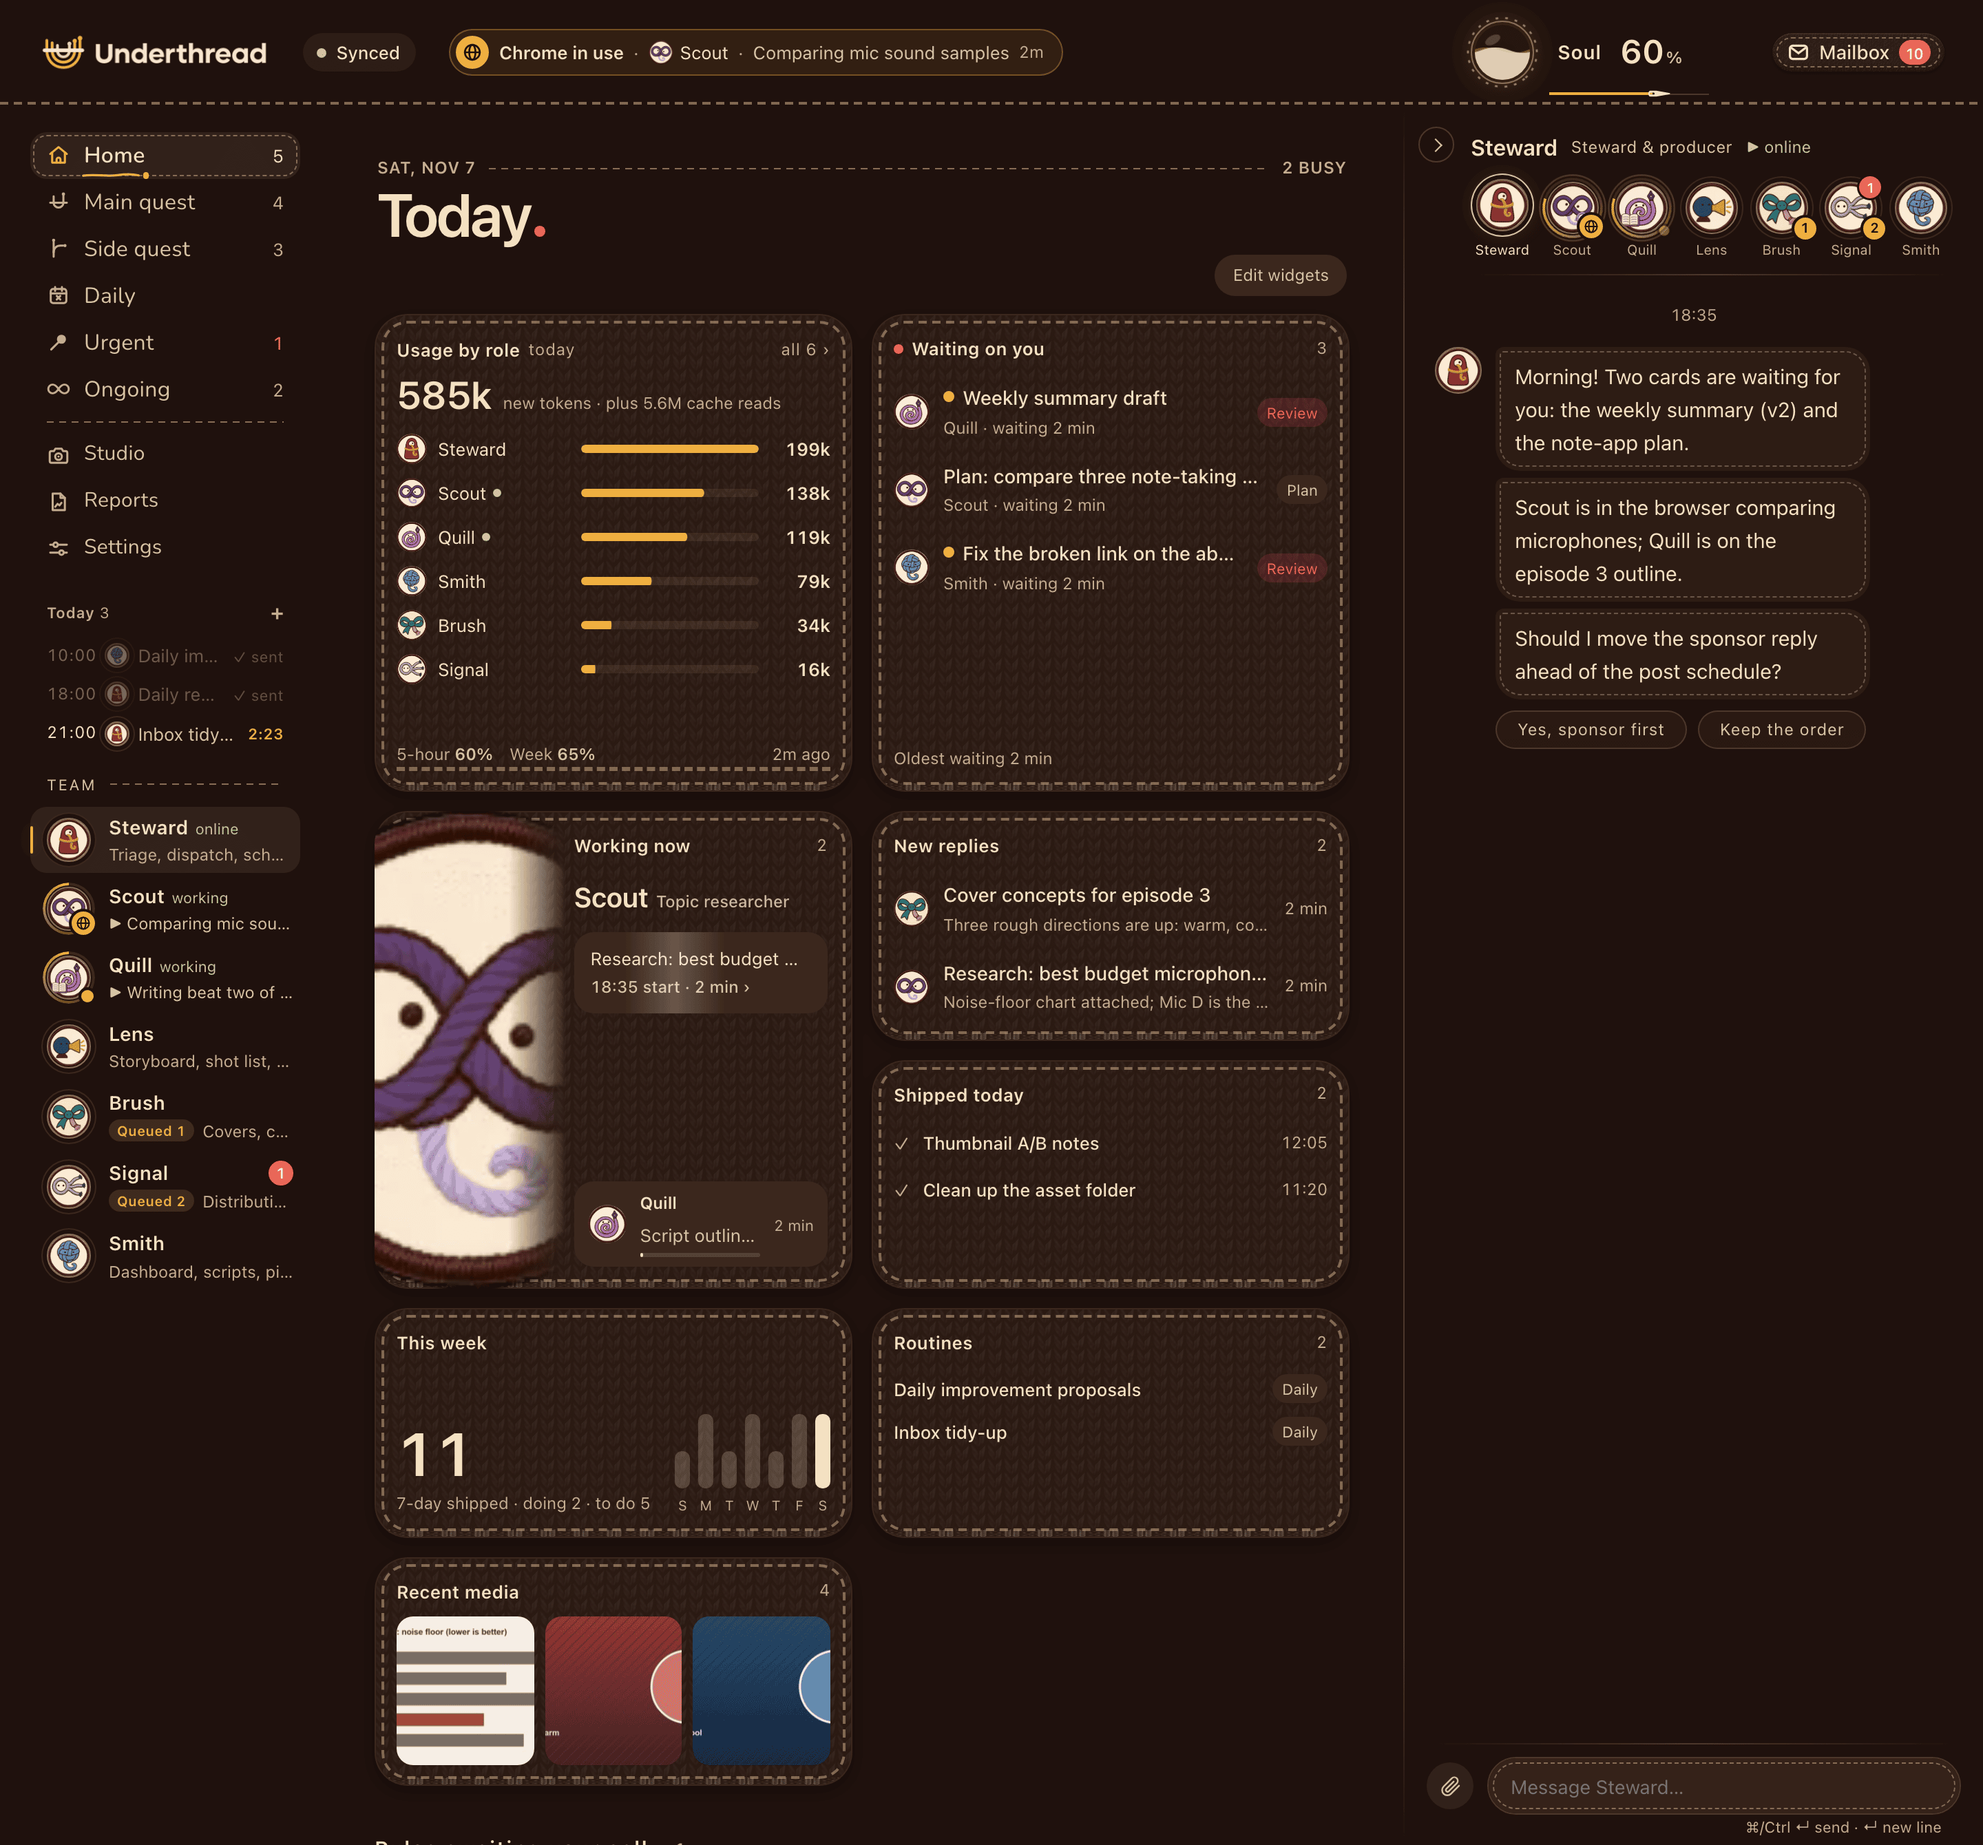
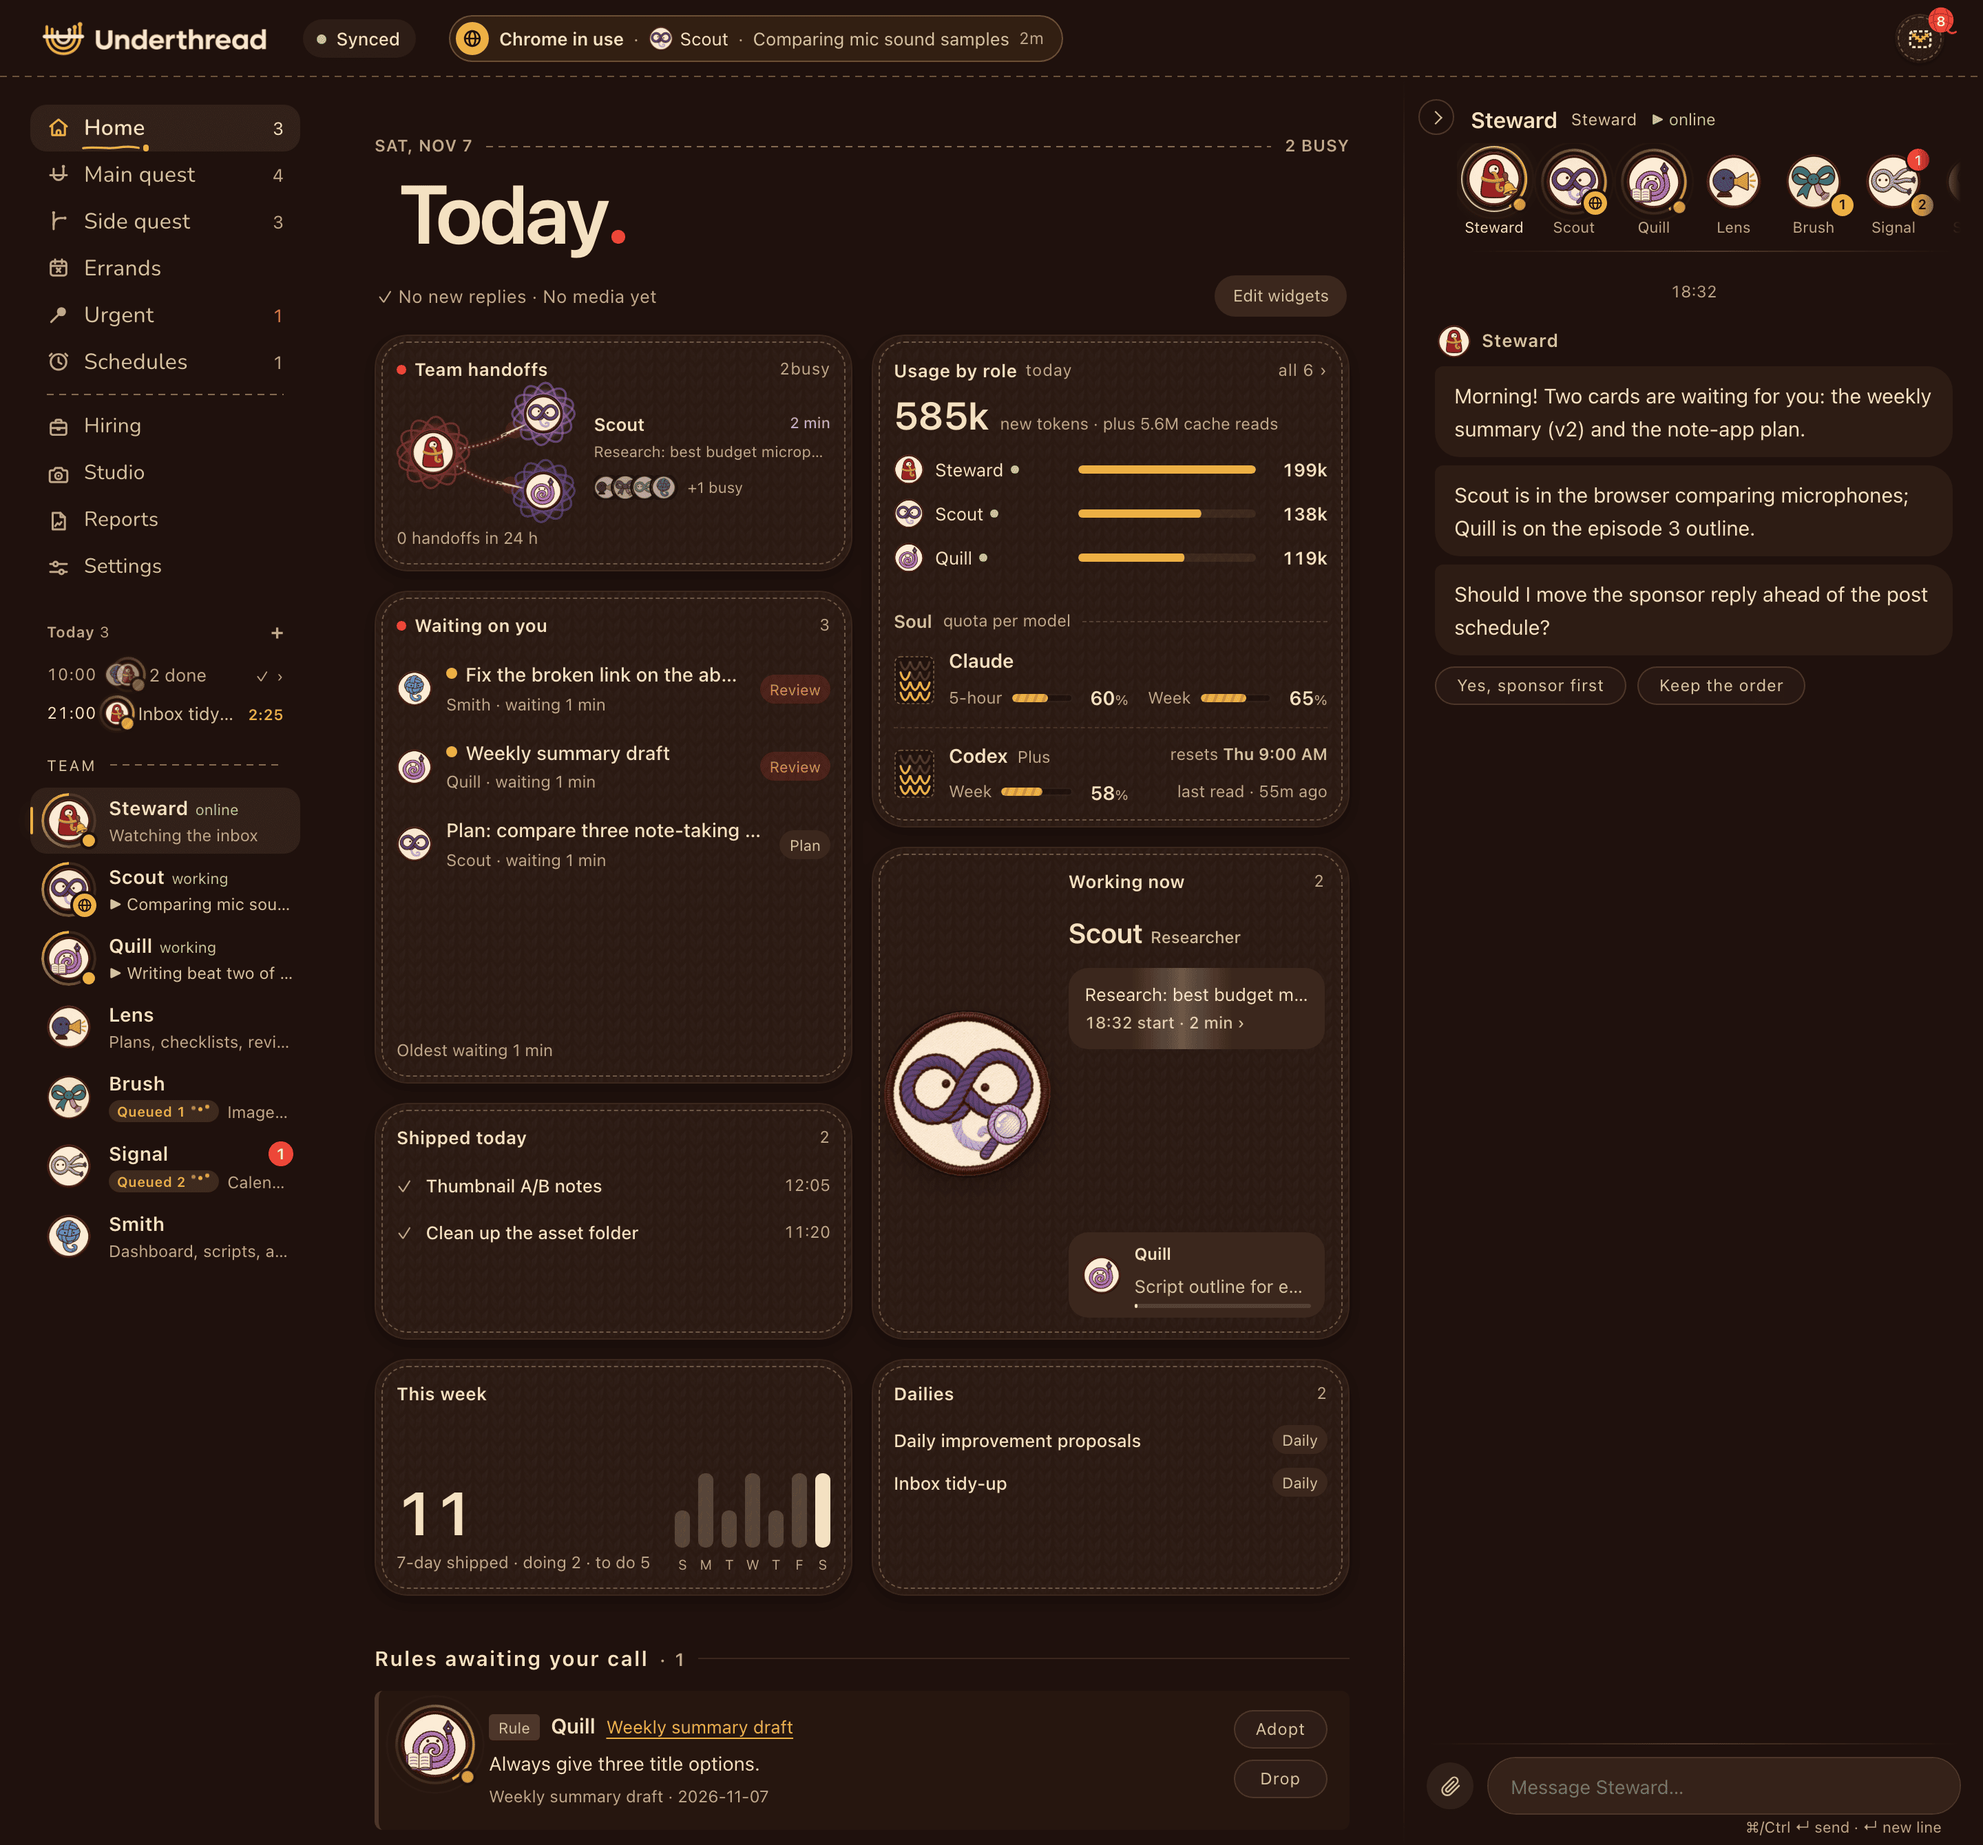
README: re-shoot textures.gif and hero-home.png with the current Off / Stitch / Leather set (t-tex-readme)
Sweater and Saddle were removed in dd51298; the GIF and the home shot still showed them.
Shot on a fresh clone with the demo seed on port 8799, browser clock pinned to the seed day.

diff --git a/README.md b/README.md
@@ -118,7 +118,7 @@ Something not working? See [Troubleshooting](docs/troubleshooting.md). The long 
 
 ## A day with your crew
 
-<p align="center"><img src="docs/img/hero-home.png" alt="The Widgets home: waiting on you, working now, new replies, shipped today, this week, daily, recent media" width="820"></p>
+<p align="center"><img src="docs/img/hero-home.png" alt="The Widgets home: team handoffs, waiting on you, usage, working now, shipped today, this week, dailies" width="820"></p>
 
 **09:10 · Just say it.** You type a sentence into the chat. The steward answers, a new card appears, and a teammate gets to work. No form, no template.
 
@@ -155,7 +155,7 @@ Something not working? See [Troubleshooting](docs/troubleshooting.md). The long 
 - **Your mail in the steward's inbox.** Connect Gmail in Settings → Connections (app password, stored in the keychain) and new mail arrives as one headers-only entry every few minutes, sorted into "needs you / can draft / FYI". Read-only: nothing is ever sent or deleted. Slack is next. See [Feeds](docs/feeds.md).
 - **Your look.** The Underthread palette in coffee and cream, or Ink. Night, day or follow the system, plus textures: Stitch and Leather.
 
-  <p align="center"><img src="docs/img/textures.gif" alt="Switching textures in Settings: off, Stitch, Sweater, Leather, Saddle" width="720"></p>
+  <p align="center"><img src="docs/img/textures.gif" alt="Switching textures in Settings: Off, Stitch, Leather" width="720"></p>
 
 - **English or Chinese** interface, switchable in Settings.
 - **Archive.** Old finished cards move out of the way so the dashboard stays quick; search still finds them.

diff --git a/README.zh-CN.md b/README.zh-CN.md
@@ -118,7 +118,7 @@ claude "Start the manager per manager.md"
 
 ## 和小队过一天
 
-<p align="center"><img src="docs/img/hero-home.png" alt="小组件首页：等你处理、正在干活、新回复、今日完成、本周、每日、最近媒体" width="820"></p>
+<p align="center"><img src="docs/img/hero-home.png" alt="小组件首页：团队交接、等你处理、用量、正在干活、今日完成、本周、每日" width="820"></p>
 
 **09:10 · 张口就来。** 在聊天里打一句话。管家回你，一张新卡出现，有个队员开始干活。不用填表，不用选模板。
 
@@ -155,7 +155,7 @@ claude "Start the manager per manager.md"
 - **邮件进管家的收件箱。** 在「设置 → 连接」里连上 Gmail（应用专用密码，存在钥匙串里），新邮件每隔几分钟汇成一条只有标题的消息，分成「要你处理 / 可起草 / 知悉」。只读：什么都不会发出或删除。Slack 随后支持。见 [Feeds](docs/feeds.md)（英文）。
 - **换个样子。** Underthread 的咖啡奶油配色，或者 Ink 黑玻璃；夜间、日间或跟随系统；再叠一层质感：针脚、软皮。
 
-  <p align="center"><img src="docs/img/textures.gif" alt="在设置里切换质感：无、针脚、毛衣、软皮、马鞍" width="720"></p>
+  <p align="center"><img src="docs/img/textures.gif" alt="在设置里切换质感：关、针脚、软皮" width="720"></p>
 
 - **中文或英文界面**，在设置里切换。
 - **自动归档。** 完成很久的卡会挪走，看板保持轻快，搜索照样找得到。
